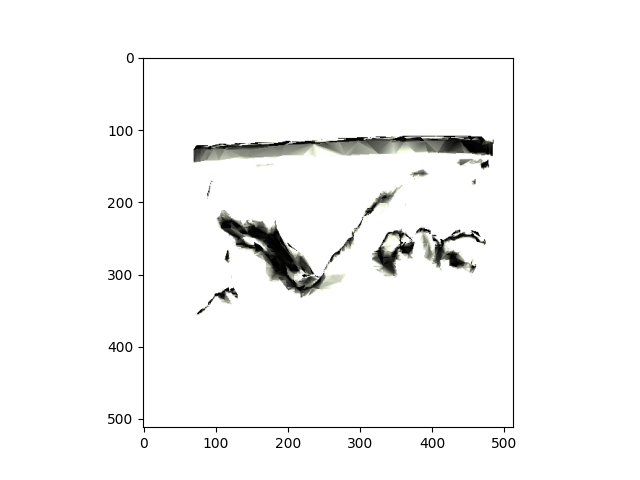
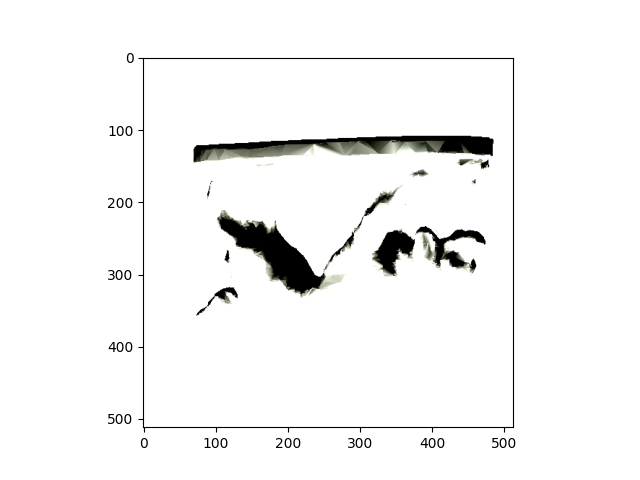
Minor changes | Still problems

diff --git a/pointLight.py b/pointLight.py
@@ -11,13 +11,14 @@ def light(point, normal, vcolor, cam_pos, mat, lights, light_amb):
     """
 
     # Ambient light component
-    ambiance = mat.ka * light_amb
+    ambiance = vcolor + mat.ka * light_amb
 
     # Diffuse light component
     diffusions = []
     for i in range(len(lights)):
         # Compute the L vector that is parallel to light beams
         L = lights[i].pos - point
+        fatt = 1/np.linalg.norm(L)
         L = L / np.linalg.norm(L)
         # Compute the fatt attenuation coefficient
         fatt = 1/np.linalg.norm(L)
@@ -28,11 +29,12 @@ def light(point, normal, vcolor, cam_pos, mat, lights, light_amb):
     V = (cam_pos - point) / np.linalg.norm(cam_pos - point)
     dotNL = np.dot(normal, L)
     for i in range(len(lights)):
-        L = (lights[i].pos - point) / np.linalg.norm((lights[i].pos - point))
+        L = (lights[i].pos - point)
         fatt = 1/np.linalg.norm(L)
+        L = L / np.linalg.norm(L)
         dotNL = np.dot(normal, L)
         speculars.append(lights[i].intensity * fatt * mat.ks * (np.dot((2 * normal * dotNL - L), V) ** mat.n))
 
     # Combination
-    I = vcolor + ambiance + np.multiply(vcolor, np.sum(diffusions)) + np.multiply(vcolor, np.sum(speculars))
+    I = ambiance + np.sum(diffusions) + np.sum(speculars)
     return I

diff --git a/demo.py b/demo.py
@@ -36,8 +36,6 @@ print('triangles')
 print("____Gouraud procedures____")
 shader = "gouraud"
 
-print(ka)
-
 # ambiance
 print("____Ambiance____")
 mat = PhongMaterial(ka, 0, 0, n)
